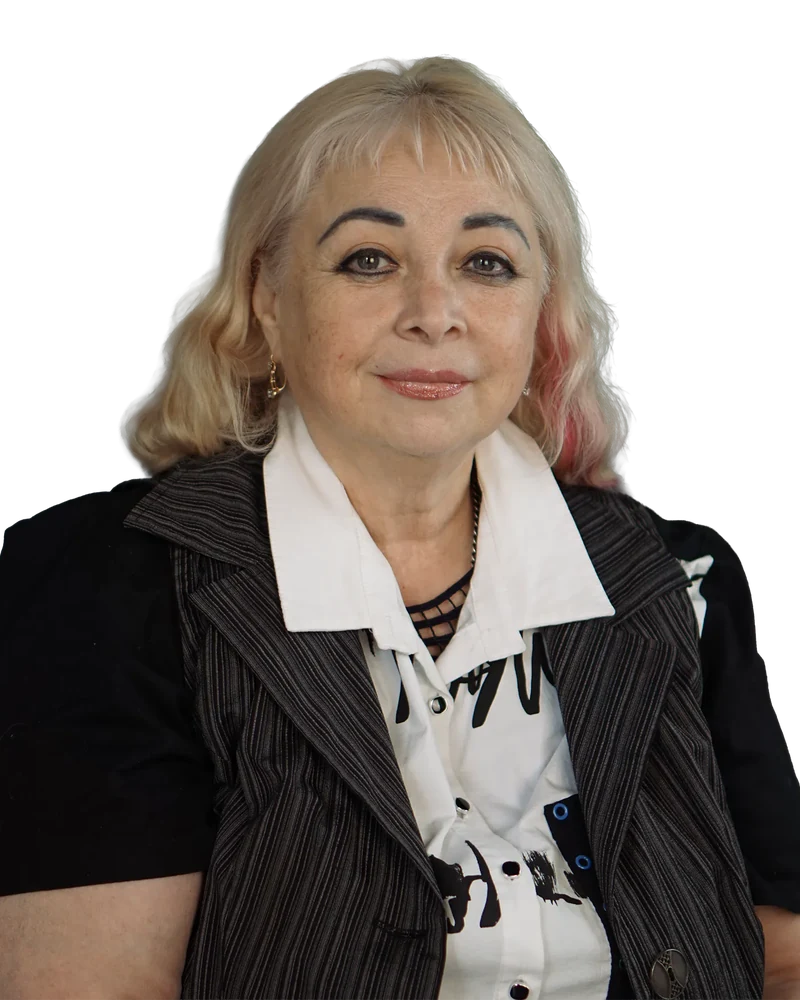
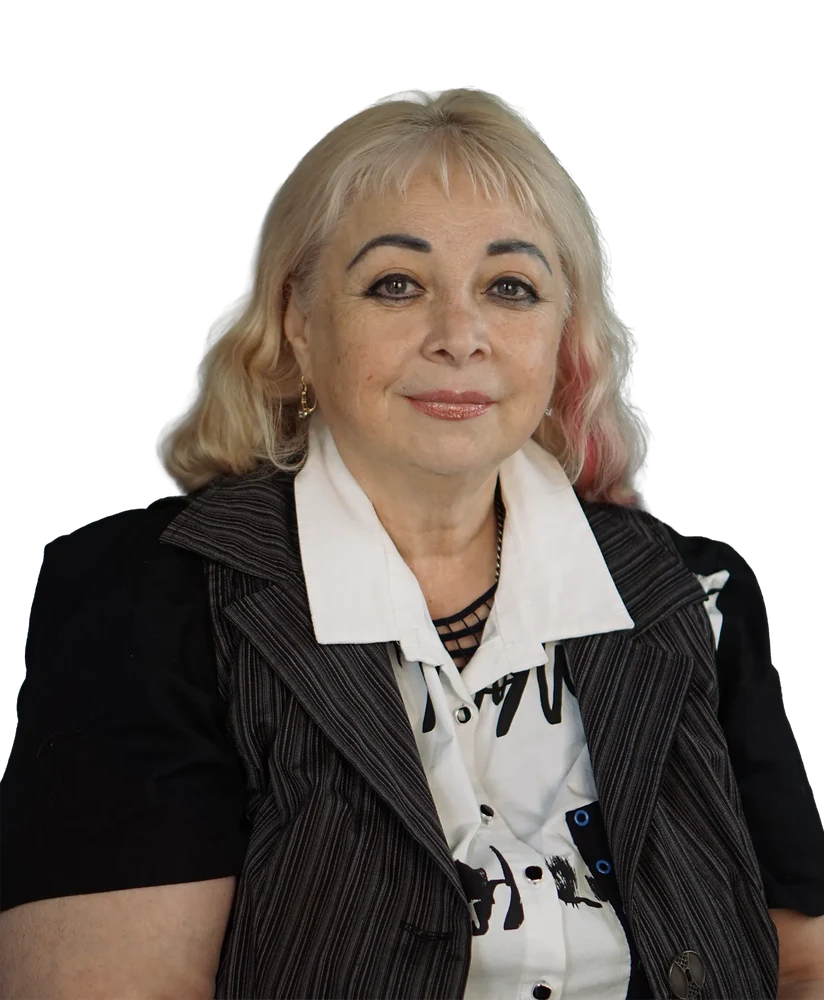
Сайт: «Один билет — вход на целый день»; новое фото Светланы; фигуры ведущих мягко растворяются по краям кадра

Changed region(s): [[0.0, 0.031, 1.0, 1.0]]

diff --git a/index.html b/index.html
@@ -185,6 +185,7 @@ a{color:inherit}
 section.block{padding-block:clamp(64px,8vw,112px)}
 .head{display:grid;gap:14px;align-content:start;margin-bottom:clamp(32px,4vw,52px)}
 .head h2{font-size:var(--step-3)}
+.head .head-sub{font-family:var(--font-display);font-style:italic;font-size:var(--step-1);color:var(--accent);margin-top:-4px}
 
 /* идея */
 .idea .wrap{display:grid;grid-template-columns:1fr 1fr;gap:clamp(32px,6vw,80px);align-items:start}
@@ -340,7 +341,12 @@ section.block{padding-block:clamp(64px,8vw,112px)}
   background:radial-gradient(ellipse at 50% 50%,rgba(255,222,176,.75) 0%,rgba(255,186,130,.3) 42%,rgba(255,186,130,0) 70%)}
 .a-person{position:absolute;left:50%;bottom:0;height:84%;transform:translateX(-50%);pointer-events:none}
 .a-person img,.a-person svg{display:block;height:100%;width:auto;max-width:none}
-.a-person img{filter:drop-shadow(0 0 2px rgba(255,236,210,.7)) drop-shadow(0 0 16px rgba(255,206,160,.5))}
+.a-person img{filter:drop-shadow(0 0 2px rgba(255,236,210,.7)) drop-shadow(0 0 16px rgba(255,206,160,.5));
+  /* фигура «вписана» в арку: края кадра (обрезанные руки, низ) мягко растворяются, голова и плечи нетронуты */
+  -webkit-mask-image:radial-gradient(ellipse 66% 88% at 50% 26%,#000 64%,transparent 100%),linear-gradient(180deg,#000 74%,transparent 98%);
+  -webkit-mask-composite:source-in;
+  mask-image:radial-gradient(ellipse 66% 88% at 50% 26%,#000 64%,transparent 100%),linear-gradient(180deg,#000 74%,transparent 98%);
+  mask-composite:intersect}
 /* картинка «Любовь» в финальной арке: по форме проёма, низ растворяется */
 .a-love{position:absolute;left:6%;right:6%;top:5%;bottom:0;border-radius:50% 50% 0 0/40% 40% 0 0;overflow:hidden;display:grid;place-items:center}
 .a-love img{position:absolute;inset:0;width:100%;height:100%;object-fit:cover;opacity:0;transition:opacity .6s ease;
@@ -876,7 +882,8 @@ footer a{text-decoration:none}
   <div class="wrap">
     <div class="head">
       <div class="eyebrow">Участие</div>
-      <h2>Один билет — а сколько пройти, решаете вы</h2>
+      <h2>Один билет — вход на целый день</h2>
+      <p class="head-sub">А сколько пройти, решаете вы</p>
       <p class="lead">Цена одна: хоть на один мастер-класс, хоть на весь фестиваль. Подскажите только, когда вас ждать, — так мы подготовим места в залах.</p>
     </div>
     <div class="pick" role="radiogroup" aria-label="Когда вы придёте">

diff --git a/README.md b/README.md
@@ -14,7 +14,7 @@
 | `proto/arches.html` | Прототип блока «Ведущие»: анфилада арок в сумерках, терновник неподвижным фоном по краям. Передняя арка по центру, остальные уходят по дуге к свету в конце; в тоннеле золотая пыльца, спикеры с тёплой подсветкой. С каждым шагом теплеет небо и зацветает терн, у финала — рассвет и лепестки. Дымка — только вокруг тоннеля. Назад на одну арку — проход, на две и больше — сцена гаснет и проявляется на нужной арке. **С 27.10 встроен в сайт** (блок «Ведущие»); прототип оставлен для экспериментов, фото берёт из `img/people/` |
 
 ## Фото ведущих для анфилады
-Фото вырезаются из фона и ставятся в арку, поэтому нужны снятые одинаково: от груди или от пояса, вся голова с запасом сверху, руки ниже плеч и не обрезаны краем кадра, однотонный фон, контрастный к волосам, дневной свет. Не селфи. Исходник присылать файлом, без сжатия мессенджером. Оригиналы — в «06_Спикеры/», вырезанные — в `img/people/` (WebP с прозрачностью, высота до 1000 px, голова ≈ 40% высоты кадра).
+Фото вырезаются из фона и ставятся в арку, поэтому нужны снятые одинаково: от груди или от пояса, вся голова с запасом сверху, руки ниже плеч и не обрезаны краем кадра, однотонный фон, контрастный к волосам, дневной свет. Не селфи. Исходник присылать файлом, без сжатия мессенджером. На сайте края кадра (обрезанные руки, низ) мягко растворяются маской, так что фигура выглядит вписанной в арку; голова и плечи не затрагиваются. Оригиналы — в «06_Спикеры/», вырезанные — в `img/people/` (WebP с прозрачностью, высота до 1000 px, голова ≈ 40% высоты кадра).
 | `CNAME`, `.nojekyll`, `.gitignore` | Служебные файлы для GitHub Pages и git — не трогать |
 
 ## Откуда тексты
